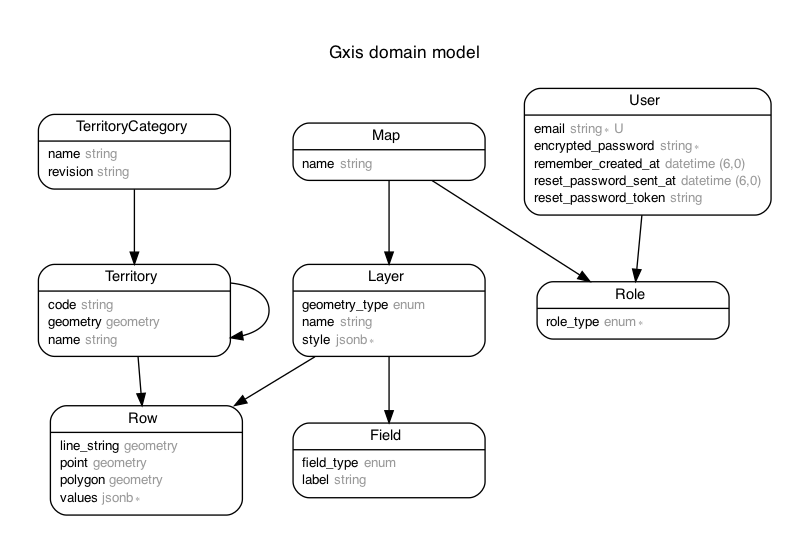
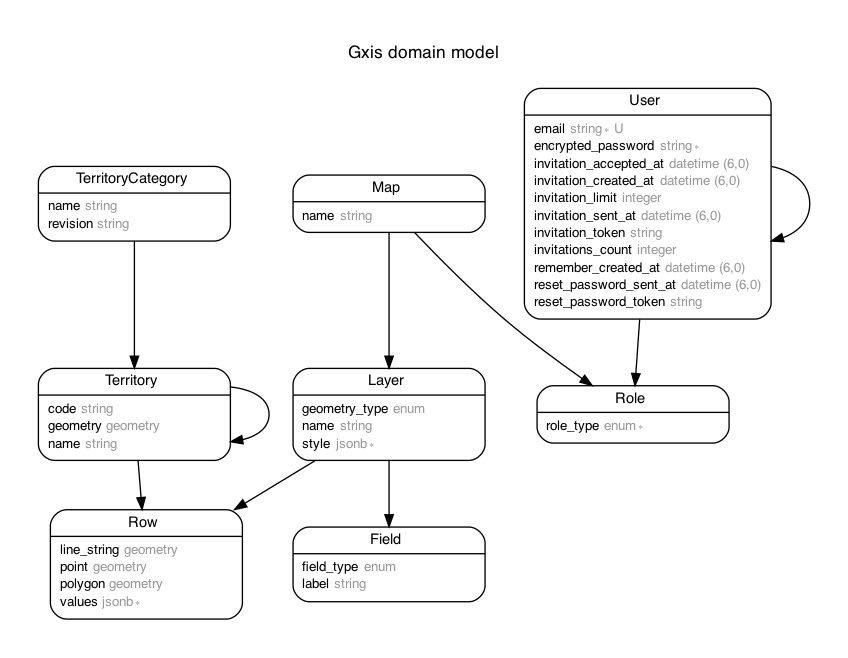
Run migration

diff --git a/db/schema.rb b/db/schema.rb
@@ -10,7 +10,7 @@
 #
 # It's strongly recommended that you check this file into your version control system.
 
-ActiveRecord::Schema[7.0].define(version: 2022_07_18_151027) do
+ActiveRecord::Schema[7.0].define(version: 2022_07_20_143402) do
   # These are extensions that must be enabled in order to support this database
   enable_extension "pg_trgm"
   enable_extension "pgcrypto"
@@ -119,7 +119,16 @@ ActiveRecord::Schema[7.0].define(version: 2022_07_18_151027) do
     t.datetime "remember_created_at"
     t.datetime "created_at", null: false
     t.datetime "updated_at", null: false
+    t.string "invitation_token"
+    t.datetime "invitation_created_at"
+    t.datetime "invitation_sent_at"
+    t.datetime "invitation_accepted_at"
+    t.integer "invitation_limit"
+    t.uuid "invited_by_id"
+    t.integer "invitations_count", default: 0
     t.index ["email"], name: "index_users_on_email", unique: true
+    t.index ["invitation_token"], name: "index_users_on_invitation_token", unique: true
+    t.index ["invited_by_id"], name: "index_users_on_invited_by_id"
     t.index ["reset_password_token"], name: "index_users_on_reset_password_token", unique: true
   end
 
@@ -130,4 +139,5 @@ ActiveRecord::Schema[7.0].define(version: 2022_07_18_151027) do
   add_foreign_key "rows", "territories"
   add_foreign_key "territories", "territories", column: "parent_id"
   add_foreign_key "territories", "territory_categories"
+  add_foreign_key "users", "users", column: "invited_by_id"
 end

diff --git a/app/models/user.rb b/app/models/user.rb
@@ -5,16 +5,29 @@
 #  id                     :uuid             not null, primary key
 #  email                  :string           default(""), not null
 #  encrypted_password     :string           default(""), not null
+#  invitation_accepted_at :datetime
+#  invitation_created_at  :datetime
+#  invitation_limit       :integer
+#  invitation_sent_at     :datetime
+#  invitation_token       :string
+#  invitations_count      :integer          default(0)
 #  remember_created_at    :datetime
 #  reset_password_sent_at :datetime
 #  reset_password_token   :string
 #  created_at             :datetime         not null
 #  updated_at             :datetime         not null
+#  invited_by_id          :uuid
 #
 # Indexes
 #
 #  index_users_on_email                 (email) UNIQUE
+#  index_users_on_invitation_token      (invitation_token) UNIQUE
+#  index_users_on_invited_by_id         (invited_by_id)
 #  index_users_on_reset_password_token  (reset_password_token) UNIQUE
+#
+# Foreign Keys
+#
+#  fk_rails_...  (invited_by_id => users.id)
 #
 class User < ApplicationRecord
   # Include default devise modules. Others available are:

diff --git a/test/models/user_test.rb b/test/models/user_test.rb
@@ -5,16 +5,29 @@
 #  id                     :uuid             not null, primary key
 #  email                  :string           default(""), not null
 #  encrypted_password     :string           default(""), not null
+#  invitation_accepted_at :datetime
+#  invitation_created_at  :datetime
+#  invitation_limit       :integer
+#  invitation_sent_at     :datetime
+#  invitation_token       :string
+#  invitations_count      :integer          default(0)
 #  remember_created_at    :datetime
 #  reset_password_sent_at :datetime
 #  reset_password_token   :string
 #  created_at             :datetime         not null
 #  updated_at             :datetime         not null
+#  invited_by_id          :uuid
 #
 # Indexes
 #
 #  index_users_on_email                 (email) UNIQUE
+#  index_users_on_invitation_token      (invitation_token) UNIQUE
+#  index_users_on_invited_by_id         (invited_by_id)
 #  index_users_on_reset_password_token  (reset_password_token) UNIQUE
+#
+# Foreign Keys
+#
+#  fk_rails_...  (invited_by_id => users.id)
 #
 require "test_helper"
 
